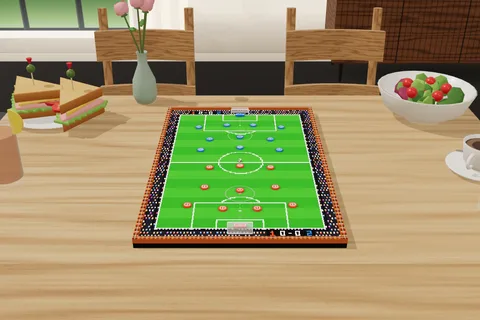
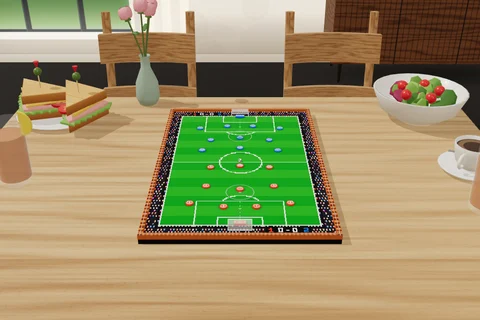
フチボウ：ウッドを継ぎ目のない木目に、8ビットの色を抑え点滅をなくし、スコア表に得点を表示
Claude-Session: https://claude.ai/code/session_019p8B6TWGZGMSPe9CJSpDa4

diff --git a/atlas/models/botao.js b/atlas/models/botao.js
@@ -106,7 +106,16 @@
         if (look === 'night' && inF) k += (Math.floor((cy + H) / 13.9) % 2 ? 9 : -6) + (N(x / 1.5, y / 40, 4) - .5) * 10;   // the mowing stripes
         if (look === 'retro') k += (N(x / 160, y / 160, 6) - .5) * 30 + (N(x / 9, y / 9, 7) > .82 ? -12 : 0);   // old paint, stains
         if (look === 'praia' && inF) k = (Math.random() - .5) * 26 + (N(x / 4, y / 4, 2) - .5) * 18;   // sand grain
-        if (look === 'madeira') { const plank = Math.floor((cx + TX) / (inF ? 9.5 : 4)), w = N(plank * 13.1 + x / 900, y / 7, 5); k = (w - .5) * 22 + (N(plank, 0, 9) - .5) * 26 + (Math.random() - .5) * 5; }
+        if (look === 'madeira') {   // (2026-11-17 ユーザー：板の境目は見せず、木目が伝わるリアルさで) one flat-sawn sheet: growth rings
+          // running the length with cathedral arches, latewood lines, fibres and pores (as table3d's woodTop, turned along the pitch)
+          const uu = y / Hh, vv = x / S - .5, A = inF ? [226, 194, 146] : [140, 92, 54], Bc = inF ? [168, 116, 68] : [72, 42, 22];
+          const cath = Math.sqrt(vv * vv + Math.pow(.09 + (uu - .55) * .12, 2)), wob = (N(uu * 1.3, vv * 2.4, 3) - .5) * .09 + (N(uu * 6, vv * 9, 2) - .5) * .012;
+          const f = ((Math.abs(vv) * .35 + cath * .65 + wob) * 30) % 1, late = Math.exp(-Math.pow((f - .78) / .06, 2)) + .35 * Math.exp(-Math.pow((f - .78) / .2, 2));
+          let tt = .18 + late * .45 + (N(uu * 5, x * .55, 2) - .5) * .3 + (N(uu * 40, x * 2.2, 1) - .5) * .12 + (N(uu * 1.5, vv * 1.5, 4) - .5) * .2;
+          if (late > .4 && N(uu * 300, x * 1.4, 1) > .78) tt += .12;
+          tt = Math.max(0, Math.min(1, tt)); const i = (y * S + x) * 4;
+          d[i] = A[0] + (Bc[0] - A[0]) * tt; d[i + 1] = A[1] + (Bc[1] - A[1]) * tt; d[i + 2] = A[2] + (Bc[2] - A[2]) * tt; d[i + 3] = 255; continue;
+        }
         const i = (y * S + x) * 4; d[i] = b[0] + k; d[i + 1] = b[1] + k; d[i + 2] = b[2] + k * (look === 'praia' ? .8 : 1.05); d[i + 3] = 255;
       }
       g.putImageData(img, 0, 0);
@@ -172,7 +181,7 @@
     return mat('btm' + look, () => {
       const TT = T(), neon = look === 'neon';
       const top = phys({ map: topTex(look), color: '#ffffff', roughness: look === 'madeira' ? .42 : look === 'praia' ? .95 : neon ? 1 : .88, metalness: 0, clearcoat: look === 'madeira' ? .6 : undefined, clearcoatRoughness: look === 'madeira' ? .35 : undefined });
-      if (neon) { top.emissiveMap = top.map; top.emissive = new TT.Color(.45, .45, .45); }   // (8-bit: the screen's own light)
+      if (neon) { top.color = new TT.Color(.8, .8, .8); top.emissiveMap = top.map; top.emissive = new TT.Color(.12, .12, .12); }   // (2026-11-17 ユーザー：少し明るすぎ → 抑えめ)   // (8-bit: the screen's own light)
       let rail;
       if (look === 'classic') { const w = X.wood('btImbuia', '#7a4a26', '#3e2412', SZ(1024), SZ(256), .9); w.wrapS = w.wrapT = TT.RepeatWrapping; rail = phys({ map: w, color: '#ffffff', roughness: .38, clearcoat: .8, clearcoatRoughness: .25 }); }
       else if (look === 'retro') { const w = X.wood('btPine', '#d8b47c', '#a87a44', SZ(1024), SZ(256), .7); w.wrapS = w.wrapT = TT.RepeatWrapping; rail = phys({ map: w, color: '#ffffff', roughness: .6 }); }
@@ -185,7 +194,7 @@
       }
       const edge = look === 'night' ? phys({ color: '#f4f4f4', roughness: .4 }) : look === 'praia' ? phys({ color: '#1f5fae', roughness: .4 }) : neon ? (() => { const m = phys({ color: '#000000', roughness: 1 }); m.emissive = lin(NES.w); m.emissiveIntensity = 1; return m; })() : null;
       const post = phys({ color: neon ? '#e8f8ff' : look === 'madeira' ? '#efe2c4' : '#f8f8f6', roughness: .3, metalness: look === 'madeira' ? 0 : .1, clearcoat: .6 });
-      if (neon) { post.color = lin(NES.w); post.roughness = 1; post.emissive = lin(NES.w); post.emissiveIntensity = .35; }
+      if (neon) { post.color = lin(NES.w); post.roughness = 1; post.emissive = lin(NES.w); post.emissiveIntensity = .2; }
       const netTex = X.canvasTex('btNet' + (neon ? 'n' : ''), 128, 128, (g, S) => { g.clearRect(0, 0, S, S); g.strokeStyle = 'rgba(255,255,255,.95)'; g.lineWidth = neon ? 16 : 6; for (let k = 0; k <= 4; k++) { const p = k * S / 4; g.beginPath(); g.moveTo(p, 0); g.lineTo(p, S); g.stroke(); g.beginPath(); g.moveTo(0, p); g.lineTo(S, p); g.stroke(); } });
       netTex.wrapS = netTex.wrapT = TT.RepeatWrapping; netTex.repeat.set(5, 2); if (neon) PIX(netTex);
       const net = new TT.MeshStandardMaterial({ map: netTex, transparent: true, alphaTest: .3, side: TT.DoubleSide, roughness: .9, depthWrite: true });
@@ -236,7 +245,7 @@
   }
   function button(look, side, n) {
     const TT = T(), g = new TT.Group(), neon = look === 'neon', [body] = TEAM[look][side];
-    const bm = mat('btBody' + look + side, () => { if (neon) { const m = phys({ color: body, roughness: 1, metalness: 0 }); m.flatShading = true; m.emissive = lin(body); m.emissiveIntensity = .3; return m; } return phys({ color: body, roughness: look === 'retro' ? .5 : look === 'madeira' ? .3 : .16, clearcoat: look === 'retro' ? .3 : 1, clearcoatRoughness: .12 }); });
+    const bm = mat('btBody' + look + side, () => { if (neon) { const m = phys({ color: body, roughness: 1, metalness: 0 }); m.flatShading = true; m.emissive = lin(body); m.emissiveIntensity = .12; return m; } return phys({ color: body, roughness: look === 'retro' ? .5 : look === 'madeira' ? .3 : .16, clearcoat: look === 'retro' ? .3 : 1, clearcoatRoughness: .12 }); });
     const b = new TT.Mesh(buttonGeo(look), bm); b.castShadow = true; g.add(b);
     const cm = mat('btCrestM' + look + side + '_' + n, () => { const m = new TT.MeshStandardMaterial({ map: crestTex(look, side, n), transparent: true, roughness: .35 }); if (neon) { m.roughness = 1; m.emissiveMap = m.map; m.emissive = new TT.Color(1, 1, 1); m.emissiveIntensity = .4; } return m; });
     const cr = neon ? new TT.Mesh(geo('bt8CrestG', () => { const q = new TT.PlaneGeometry(RB * K * 1.62, RB * K * 1.62); q.rotateX(-Math.PI / 2); return q; }), cm) : new TT.Mesh(geo('btCrestG', () => { const q = new TT.CircleGeometry(RB * K * .74, 30); q.rotateX(-Math.PI / 2); return q; }), cm);
@@ -251,7 +260,7 @@
     const m = mat('btBall' + look, () => {
       if (look === 'neon') {   // 8-bit: a blocky ball, white with black pixel patches
         const tex = PIX(X.canvasTex('bt8Ball', 16, 8, (g) => { g.fillStyle = NES.w; g.fillRect(0, 0, 16, 8); g.fillStyle = NES.k; [[1, 1], [5, 3], [9, 1], [13, 3], [3, 5], [7, 6], [11, 5], [15, 6]].forEach(([x, y]) => g.fillRect(x, y, 2, 2)); }));
-        const q = phys({ map: tex, color: '#ffffff', roughness: 1 }); q.flatShading = true; q.emissiveMap = tex; q.emissive = lin('#ffffff'); q.emissiveIntensity = .35; return q;
+        const q = phys({ map: tex, color: '#ffffff', roughness: 1 }); q.flatShading = true; q.emissiveMap = tex; q.emissive = lin('#ffffff'); q.emissiveIntensity = .15; return q;
       }
       const base = look === 'night' ? '#fff8d8' : look === 'praia' ? '#ffe14a' : look === 'neon' ? '#ffffff' : '#f6f3ea';
       const tex = X.canvasTex('btBallT' + look, 256, 128, (g, S) => {
@@ -267,7 +276,7 @@
         }
         g.putImageData(im, 0, 0);
       });
-      const q = phys({ map: tex, color: '#ffffff', roughness: .55, clearcoat: .4 }); if (look === 'neon') { q.emissiveMap = tex; q.emissive = lin('#ffffff'); q.emissiveIntensity = .7; } return q;
+      const q = phys({ map: tex, color: '#ffffff', roughness: .55, clearcoat: .4 }); if (look === 'neon') { q.emissiveMap = tex; q.emissive = lin('#ffffff'); q.emissiveIntensity = .35; } return q;
     });
     const s = new TT.Mesh(look === 'neon' ? geo('bt8BallG', () => new TT.SphereGeometry(RBALL * K, 8, 6)) : geo('btBallG', () => new TT.SphereGeometry(RBALL * K, LO() ? 12 : 18, LO() ? 9 : 14)), m); s.position.y = RBALL * K; s.castShadow = true; g.add(s);
     g.userData = { r: RBALL };
@@ -276,7 +285,7 @@
   // the goalkeeper: a block 8 × 3.5 × 1.6 cm in the side's colour, the number 1 on its back
   function keeper(look, side) {
     const TT = T(), g = new TT.Group(), [body, gr, ink] = TEAM[look][side], neon = look === 'neon';
-    const bm = mat('btKeep' + look + side, () => { if (neon) { const m = phys({ color: body, roughness: 1 }); m.emissive = lin(body); m.emissiveIntensity = .3; return m; } return phys({ color: body, roughness: look === 'retro' ? .55 : .22, clearcoat: look === 'retro' ? .2 : .9, clearcoatRoughness: .15 }); });
+    const bm = mat('btKeep' + look + side, () => { if (neon) { const m = phys({ color: body, roughness: 1 }); m.emissive = lin(body); m.emissiveIntensity = .12; return m; } return phys({ color: body, roughness: look === 'retro' ? .55 : .22, clearcoat: look === 'retro' ? .2 : .9, clearcoatRoughness: .15 }); });
     const box = new TT.Mesh(geo('btKeepG', () => { const q = new TT.BoxGeometry(2 * KHW * K, KH * K, 2 * KHD * K, 1, 1, 1); return q; }), bm); box.position.y = KH * K / 2; box.castShadow = true; g.add(box);
     const lab = mat('btKeepL' + look + side, () => { if (neon) { const tx = PIX(X.canvasTex('bt8Keep' + side, 16, 7, (c) => { c.fillStyle = gr; c.fillRect(0, 0, 16, 7); c.fillStyle = body; c.fillRect(1, 1, 14, 5); pixNum(c, 1, 6.5, 1, 1, NES.w); })); const m = new TT.MeshStandardMaterial({ map: tx, roughness: 1 }); m.emissiveMap = tx; m.emissive = new TT.Color(1, 1, 1); m.emissiveIntensity = .4; return m; }
       const m = new TT.MeshStandardMaterial({ map: X.canvasTex('btKeepT' + look + side, 256, 112, (c, S) => { c.fillStyle = gr; c.fillRect(0, 0, S, 112); c.strokeStyle = ink; c.lineWidth = 10; c.strokeRect(5, 5, S - 10, 102); c.fillStyle = ink; c.font = '900 84px "Fredoka", system-ui, sans-serif'; c.textAlign = 'center'; c.textBaseline = 'middle'; c.fillText('1', S / 2, 60); }), roughness: .4 }); if (neon) { m.emissiveMap = m.map; m.emissive = new TT.Color(1, 1, 1); m.emissiveIntensity = .8; } return m; });
@@ -321,6 +330,14 @@
     const U = g.userData;
     U.top = TOP; U.K = K; U.look = look; U.mats = BM; U.W = OW * K; U.L = OL * K;
     U.xz = (x, y) => [x * K, y * K];
+    // the 8-bit stands' scoreboards (2026-11-17 ユーザー：得点をスコア表にも): where they are on the table (cm) and how one is drawn
+    // (29×7 px) — the game lays a small live copy over each
+    if (look === 'neon') {
+      const Hh = Math.round(TL);
+      U.scoreBoards = [1, -1].map(sg => { const y = sg > 0 ? Hh - 8 : 3, x0 = TX + sg * 30 - 12; return { x: x0 - 2 - TX, y: y - 1 - TY, w: 29, h: 7 }; });
+      U.drawScore = (g, a, b) => { g.imageSmoothingEnabled = false; g.fillStyle = NES.k; g.fillRect(0, 0, 29, 7); const d = (n, x, c) => pixNum(g, n, x, 1, 1, c);
+        d(1, 2, NES.red); d(a % 10, 8, NES.w); g.fillStyle = NES.w; g.fillRect(13, 3, 2, 1); d(b % 10, 17, NES.w); d(2, 24, NES.blue); };
+    }
     U.button = (side, n) => button(look, side, n); U.ball = () => ball(look); U.keeper = side => keeper(look, side);
     U.dot = side => DOT[look][side];
     // the goal's inside width (cm): the PK shoot-out widens it (the posts and side nets move out, the bar and nets stretch)

diff --git a/atlas/lazy.js b/atlas/lazy.js
@@ -5,7 +5,7 @@
      AtlasLazy.has3D(id) / hasPlay(id) / hasRules(id) — known before loading; AtlasLazy.loaded(id) */
 (function () {
 'use strict';
-const G = {"reversi": ["models/reversi.js?v=1", "games/reversi.js?v=56", "rules/reversi.js?v=14"], "shogi": ["models/shogi.js?v=102", "games/shogi-play.js?v=48", "games/shogi.js?v=18", "rules/shogi.js?v=21"], "chess": ["models/chess.js?v=23", "games/chess.js?v=23", "rules/chess.js?v=8"], "backgammon": ["models/backgammon.js?v=123", "games/backgammon.js?v=29", "rules/backgammon.js?v=11"], "gomoku": ["models/goban.js?v=17", "games/gomoku.js?v=19", "rules/gomoku.js?v=10"], "go": ["models/goban.js?v=17", "games/go.js?v=10", "rules/go.js?v=7"], "hex": ["models/goban.js?v=17", "models/hex.js?v=3", "games/hex.js?v=9", "rules/hex.js?v=7"], "tafl": ["games/tafl.js?v=20", "rules/tafl.js?v=8"], "xiangqi": ["models/xiangqi.js?v=8", "games/xiangqi.js?v=18", "rules/xiangqi.js?v=7"], "janggi": ["models/xiangqi.js?v=8", "models/janggi.js?v=3", "games/janggi.js?v=10", "rules/janggi.js?v=3"], "checkers": ["models/checkers.js?v=23", "games/checkers.js?v=15", "rules/checkers.js?v=9"], "ugolki": ["models/checkers.js?v=23", "models/ugolki.js?v=4", "games/ugolki.js?v=16", "rules/ugolki.js?v=10"], "morris": ["models/morris.js?v=9", "games/morris-pieces.js?v=5", "games/morris.js?v=16", "rules/morris.js?v=8"], "connect4": ["models/connect4.js?v=6", "games/connect4-tiles.js?v=3", "games/connect4.js?v=10", "rules/connect4.js?v=3"], "mancala": ["models/mancala.js?v=6", "games/mancala.js?v=16", "rules/mancala.js?v=5"], "dots": ["models/dots.js?v=5", "games/dots.js?v=15", "rules/dots.js?v=3"], "ur": ["models/ur-dice.js?v=2", "models/ur.js?v=5", "games/ur-kit.js?v=15", "games/ur.js?v=15", "rules/ur.js?v=17"], "fanorona": ["models/fanorona.js?v=4", "games/fanorona.js?v=9", "rules/fanorona.js?v=8"], "konane": ["models/konane.js?v=7", "games/konane.js?v=18", "rules/konane.js?v=7"], "latrunculi": ["models/latrunculi.js?v=1", "games/latrunculi.js?v=3", "rules/latrunculi.js?v=2"], "foxgeese": ["models/foxgeese.js?v=1", "games/foxgeese.js?v=13", "rules/foxgeese.js?v=10"], "amazons": ["models/amazons.js?v=7", "games/amazons.js?v=17", "rules/amazons.js?v=9"], "senet": ["models/ur-dice.js?v=2", "models/senet.js?v=10", "games/senet-kit.js?v=5", "games/senet.js?v=20", "rules/senet.js?v=9"], "agon": ["models/agon.js?v=4", "games/agon.js?v=16", "rules/agon.js?v=6"], "alquerque": ["models/alquerque.js?v=3", "games/fanorona.js?v=9", "rules/alquerque.js?v=6"], "ludo": ["../ludo/engine.js?v=4", "../ludo/house.js?v=7", "../ludo/board2d.js?v=7", "../ludo/board-art.js?v=3", "models/ludo.js?v=10", "games/ludo.js?v=30", "rules/ludo.js?v=3"], "carrom": ["../carrom/engine.js?v=7", "models/carrom.js?v=18", "games/carrom.js?v=41", "rules/carrom.js?v=8", "../shared/onlinesec.js?v=2l14as1sh1", "online3d.js?v=1"], "crokinole": ["../carrom/engine.js?v=7", "games/carrom.js?v=41", "../crokinole/engine.js?v=4", "models/crokinole.js?v=13", "games/crokinole.js?v=18", "rules/crokinole.js?v=4", "../shared/onlinesec.js?v=2l14as1sh1", "online3d.js?v=1"], "hockey": ["../hockey/engine.js?v=15", "models/hockey.js?v=8", "games/hockey.js?v=31", "rules/hockey.js?v=7"], "botao": ["../carrom/engine.js?v=7", "games/carrom.js?v=41", "../botao/engine.js?v=15", "models/botao.js?v=9", "games/botao-i18n.js?v=13", "games/botao.js?v=30", "rules/botao.js?v=7"], "shanghai": ["games/shanghai-core.js?v=2", "games/shanghai-scenes.js?v=2", "games/shanghai-zodiac.js?v=6", "games/shanghai-i18n.js?v=17", "models/shanghai.js?v=19", "games/shanghai.js?v=44", "rules/shanghai-i18n.js?v=1", "rules/shanghai.js?v=1"], "patolli": ["models/patolli.js?v=1", "games/patolli-kit.js?v=2", "games/patolli.js?v=4", "rules/patolli.js?v=2"], "peg": ["../peg/engine.js?v=2", "../peg/i18n.js?v=11", "models/peg.js?v=23", "games/peg.js?v=16", "rules/peg.js?v=4"], "hitblow": ["../hitblow/engine.js?v=5", "models/hitblow.js?v=10", "games/hitblow.js?v=13", "rules/hitblow.js?v=3"]};
+const G = {"reversi": ["models/reversi.js?v=1", "games/reversi.js?v=56", "rules/reversi.js?v=14"], "shogi": ["models/shogi.js?v=102", "games/shogi-play.js?v=48", "games/shogi.js?v=18", "rules/shogi.js?v=21"], "chess": ["models/chess.js?v=23", "games/chess.js?v=23", "rules/chess.js?v=8"], "backgammon": ["models/backgammon.js?v=123", "games/backgammon.js?v=29", "rules/backgammon.js?v=11"], "gomoku": ["models/goban.js?v=17", "games/gomoku.js?v=19", "rules/gomoku.js?v=10"], "go": ["models/goban.js?v=17", "games/go.js?v=10", "rules/go.js?v=7"], "hex": ["models/goban.js?v=17", "models/hex.js?v=3", "games/hex.js?v=9", "rules/hex.js?v=7"], "tafl": ["games/tafl.js?v=20", "rules/tafl.js?v=8"], "xiangqi": ["models/xiangqi.js?v=8", "games/xiangqi.js?v=18", "rules/xiangqi.js?v=7"], "janggi": ["models/xiangqi.js?v=8", "models/janggi.js?v=3", "games/janggi.js?v=10", "rules/janggi.js?v=3"], "checkers": ["models/checkers.js?v=23", "games/checkers.js?v=15", "rules/checkers.js?v=9"], "ugolki": ["models/checkers.js?v=23", "models/ugolki.js?v=4", "games/ugolki.js?v=16", "rules/ugolki.js?v=10"], "morris": ["models/morris.js?v=9", "games/morris-pieces.js?v=5", "games/morris.js?v=16", "rules/morris.js?v=8"], "connect4": ["models/connect4.js?v=6", "games/connect4-tiles.js?v=3", "games/connect4.js?v=10", "rules/connect4.js?v=3"], "mancala": ["models/mancala.js?v=6", "games/mancala.js?v=16", "rules/mancala.js?v=5"], "dots": ["models/dots.js?v=5", "games/dots.js?v=15", "rules/dots.js?v=3"], "ur": ["models/ur-dice.js?v=2", "models/ur.js?v=5", "games/ur-kit.js?v=15", "games/ur.js?v=15", "rules/ur.js?v=17"], "fanorona": ["models/fanorona.js?v=4", "games/fanorona.js?v=9", "rules/fanorona.js?v=8"], "konane": ["models/konane.js?v=7", "games/konane.js?v=18", "rules/konane.js?v=7"], "latrunculi": ["models/latrunculi.js?v=1", "games/latrunculi.js?v=3", "rules/latrunculi.js?v=2"], "foxgeese": ["models/foxgeese.js?v=1", "games/foxgeese.js?v=13", "rules/foxgeese.js?v=10"], "amazons": ["models/amazons.js?v=7", "games/amazons.js?v=17", "rules/amazons.js?v=9"], "senet": ["models/ur-dice.js?v=2", "models/senet.js?v=10", "games/senet-kit.js?v=5", "games/senet.js?v=20", "rules/senet.js?v=9"], "agon": ["models/agon.js?v=4", "games/agon.js?v=16", "rules/agon.js?v=6"], "alquerque": ["models/alquerque.js?v=3", "games/fanorona.js?v=9", "rules/alquerque.js?v=6"], "ludo": ["../ludo/engine.js?v=4", "../ludo/house.js?v=7", "../ludo/board2d.js?v=7", "../ludo/board-art.js?v=3", "models/ludo.js?v=10", "games/ludo.js?v=30", "rules/ludo.js?v=3"], "carrom": ["../carrom/engine.js?v=7", "models/carrom.js?v=18", "games/carrom.js?v=41", "rules/carrom.js?v=8", "../shared/onlinesec.js?v=2l14as1sh1", "online3d.js?v=1"], "crokinole": ["../carrom/engine.js?v=7", "games/carrom.js?v=41", "../crokinole/engine.js?v=4", "models/crokinole.js?v=13", "games/crokinole.js?v=18", "rules/crokinole.js?v=4", "../shared/onlinesec.js?v=2l14as1sh1", "online3d.js?v=1"], "hockey": ["../hockey/engine.js?v=15", "models/hockey.js?v=8", "games/hockey.js?v=31", "rules/hockey.js?v=7"], "botao": ["../carrom/engine.js?v=7", "games/carrom.js?v=41", "../botao/engine.js?v=15", "models/botao.js?v=10", "games/botao-i18n.js?v=13", "games/botao.js?v=31", "rules/botao.js?v=7"], "shanghai": ["games/shanghai-core.js?v=2", "games/shanghai-scenes.js?v=2", "games/shanghai-zodiac.js?v=6", "games/shanghai-i18n.js?v=17", "models/shanghai.js?v=19", "games/shanghai.js?v=44", "rules/shanghai-i18n.js?v=1", "rules/shanghai.js?v=1"], "patolli": ["models/patolli.js?v=1", "games/patolli-kit.js?v=2", "games/patolli.js?v=4", "rules/patolli.js?v=2"], "peg": ["../peg/engine.js?v=2", "../peg/i18n.js?v=11", "models/peg.js?v=23", "games/peg.js?v=16", "rules/peg.js?v=4"], "hitblow": ["../hitblow/engine.js?v=5", "models/hitblow.js?v=10", "games/hitblow.js?v=13", "rules/hitblow.js?v=3"]};
 const F = {"patolli": {"t3": true, "play": true, "rules": true}, "reversi": {"t3": true, "play": true, "rules": true}, "shogi": {"t3": true, "play": true, "rules": true}, "chess": {"t3": true, "play": true, "rules": true}, "backgammon": {"t3": true, "play": true, "rules": true}, "gomoku": {"t3": true, "play": true, "rules": true}, "go": {"t3": true, "play": true, "rules": true}, "hex": {"t3": true, "play": true, "rules": true}, "tafl": {"t3": true, "play": true, "rules": true}, "xiangqi": {"t3": true, "play": true, "rules": true}, "janggi": {"t3": true, "play": true, "rules": true}, "checkers": {"t3": true, "play": true, "rules": true}, "ugolki": {"t3": true, "play": true, "rules": true}, "morris": {"t3": true, "play": true, "rules": true}, "connect4": {"t3": true, "play": true, "rules": true}, "mancala": {"t3": true, "play": true, "rules": true}, "dots": {"t3": true, "play": true, "rules": true}, "ur": {"t3": true, "play": true, "rules": true}, "fanorona": {"t3": true, "play": true, "rules": true}, "konane": {"t3": true, "play": true, "rules": true}, "latrunculi": {"t3": true, "play": true, "rules": true}, "foxgeese": {"t3": true, "play": true, "rules": true}, "amazons": {"t3": true, "play": true, "rules": true}, "senet": {"t3": true, "play": true, "rules": true}, "agon": {"t3": true, "play": true, "rules": true}, "alquerque": {"t3": true, "play": true, "rules": true}, "ludo": {"t3": true, "play": true, "rules": true}, "carrom": {"t3": true, "play": true, "rules": true}, "crokinole": {"t3": true, "play": true, "rules": true}, "hockey": {"t3": true, "play": true, "rules": true}, "botao": {"t3": true, "play": true, "rules": true}, "peg": {"t3": true, "play": true, "rules": true}, "shanghai": {"t3": true, "play": true, "rules": true}, "hitblow": {"t3": true, "play": true, "rules": true}};
 const done = new Set(), loading = new Map(), ok = new Set();
 function load(src) {

diff --git a/atlas/games/botao.js b/atlas/games/botao.js
@@ -95,7 +95,7 @@
       if (v === look) return; neonReset(); look = v; feel = AC().feelOf(CFEEL[v]);
       try { if (T3.setBoard) T3.setBoard('botao', v); } catch (e) {}
       const nb = T3.MODELS.botao(true, v); modelKids.forEach(c => board.remove(c)); modelKids = new Set(nb.children); [...nb.children].forEach(c => board.add(c)); board.userData = nb.userData; U = board.userData; goalW();
-      build(); syncAll(); neonTick(); if (T3.kick) T3.kick(500);
+      build(); syncAll(); neonTick(); scoreBoards(); if (T3.kick) T3.kick(500);
     }
 
     /* ---------- the camera: following the ball (an angled close view) or the whole table from above ---------- */
@@ -320,6 +320,7 @@
     }
     const dotCol = p => U.dot ? U.dot(p) : (p === 0 ? '#d4352a' : '#e9e6dc');
     function hud() {
+      scoreBoards();
       if (stopped || !st) return;
       const pill = p => `<span class="btp ${st.pos === p && !over ? 'on' : ''}"><i style="background:${dotCol(p)}"></i><span class="nm">${esc(nameOf(p))}</span><b>${st.score[p]}</b></span>`;
       const top = st.pk ? tx('pkHud', { n: st.pk.n }) + ' ' + [0, 1].map(t => st.pk.k[t].map(x => x ? '●' : '×').join('') || '−').join(' | ') : st.goals ? tx('to', { n: st.goals }) : tx(st.half === 1 ? 'first' : 'second') + ' ' + tx('left', { n: Math.max(0, st.halfLen - st.clock) });
@@ -352,8 +353,8 @@
     let waveT = 0, flashT = 0, strobeT = 0;
     const TRAIL = [];
     const PAL8 = ['#fcfcfc', '#f8b800', '#f83800', '#d800cc', '#0078f8', '#00b800'];
-    function neonFlash(k) { flashT = Math.max(flashT, performance.now() + 120 * (k || 1)); }
-    function neonStrobe() { strobeT = performance.now() + 1800; }
+    function neonFlash() {}   // (2026-11-17 ユーザー：当たったときに画面が一瞬明るくなる演出はカット)
+    function neonStrobe() {}   // (the goal's flashing pitch: cut too, 2026-11-17)
     let trailRaf = 0, trailLast = null;
     function trailPaint(m, now) {
       const k = (now - m.userData.t0) / 650; if (k >= 1) { m.visible = false; return; }
@@ -386,7 +387,27 @@
     // the materials are shared (the board picker, the showcase): put them back as the model made them
     function neonReset() {
       const M = U && U.mats; if (!M || U.look !== 'neon') return;
-      M.top.emissive.setRGB(.45, .45, .45); if (M.edge) { M.edge.emissive.set('#fcfcfc').convertSRGBToLinear(); M.edge.emissiveIntensity = 1; } if (M.post) { M.post.emissive.set('#fcfcfc').convertSRGBToLinear(); M.post.emissiveIntensity = .35; }
+      M.top.emissive.setRGB(.12, .12, .12); if (M.edge) { M.edge.emissive.set('#fcfcfc').convertSRGBToLinear(); M.edge.emissiveIntensity = .5; } if (M.post) { M.post.emissive.set('#fcfcfc').convertSRGBToLinear(); M.post.emissiveIntensity = .2; }
+    }
+    // the 8-bit stands' scoreboards show the score (2026-11-17): a small pixel canvas laid over each board in the top
+    const SB = { meshes: [], key: '' };
+    function sbDrop() { SB.meshes.forEach(m => { board.remove(m); m.geometry.dispose(); }); if (SB.meshes.length) { SB.meshes[0].material.dispose(); SB.tex.dispose(); } SB.meshes = []; SB.key = ''; }
+    function scoreBoards() {
+      if (SB.U !== U) { sbDrop(); SB.U = U; }
+      if (stopped || !U || !U.scoreBoards || !st) { SB.meshes.forEach(m => { m.visible = false; }); return; }
+      const key = st.score[0] + '-' + st.score[1]; if (SB.meshes.length && SB.key === key && SB.meshes[0].visible) return; SB.key = key;
+      if (!SB.meshes.length) {
+        SB.cv = document.createElement('canvas'); SB.cv.width = 29; SB.cv.height = 7;
+        SB.tex = new TH.CanvasTexture(SB.cv); SB.tex.magFilter = SB.tex.minFilter = TH.NearestFilter; SB.tex.generateMipmaps = false; SB.tex.colorSpace = TH.SRGBColorSpace;
+        const mat = new TH.MeshBasicMaterial({ map: SB.tex, toneMapped: false, color: new TH.Color(.8, .8, .8) });
+        U.scoreBoards.forEach(r => {
+          const P = [[r.x, r.y], [r.x + r.w, r.y], [r.x, r.y + r.h], [r.x + r.w, r.y + r.h]].map(([x, y]) => { const [a, b] = wx(x, y); return [a, Y + .004, b]; });
+          const geo = new TH.BufferGeometry(); geo.setAttribute('position', new TH.Float32BufferAttribute(P.flat(), 3));
+          geo.setAttribute('uv', new TH.Float32BufferAttribute([0, 1, 1, 1, 0, 0, 1, 0], 2)); geo.setIndex([0, 2, 1, 1, 2, 3]);
+          const m = new TH.Mesh(geo, mat); m.renderOrder = 2; m.material.side = TH.DoubleSide; board.add(m); SB.meshes.push(m);
+        });
+      }
+      U.drawScore(SB.cv.getContext('2d'), st.score[0], st.score[1]); SB.tex.needsUpdate = true; SB.meshes.forEach(m => { m.visible = true; }); kick(100);
     }
     function neonTick() {
       cancelAnimationFrame(waveT); if (stopped) TRAIL.forEach(m => { m.visible = false; }); if (stopped || !U || U.look !== 'neon') return;
@@ -397,10 +418,10 @@
         const key = st + '|' + strobe + '|' + fl; if (key === lastKey) return; lastKey = key;   // (only on a new step)
         // the pitch: a blink on a knock, the palette on a goal
         if (strobe) { c.set(PAL8[st % PAL8.length]).convertSRGBToLinear(); M.top.emissive.copy(c).multiplyScalar(.8); }
-        else M.top.emissive.setRGB(fl ? .85 : .45, fl ? .85 : .45, fl ? .85 : .45);
+        else M.top.emissive.setRGB(.12, .12, .12);
         // the rail's strip marches through the palette; the goal frames blink on a goal
-        if (M.edge && st !== lastStep) { M.edge.emissive.set(PAL8[st % PAL8.length]).convertSRGBToLinear(); M.edge.emissiveIntensity = 1; }
-        if (M.post) { M.post.emissive.set(strobe ? PAL8[(st + 2) % PAL8.length] : '#fcfcfc').convertSRGBToLinear(); M.post.emissiveIntensity = strobe ? 1 : .35; }
+        if (M.edge && st !== lastStep) { M.edge.emissive.set(PAL8[st % PAL8.length]).convertSRGBToLinear(); M.edge.emissiveIntensity = .5; }
+        if (M.post) { M.post.emissive.set(strobe ? PAL8[(st + 2) % PAL8.length] : '#fcfcfc').convertSRGBToLinear(); M.post.emissiveIntensity = strobe ? .5 : .2; }
         lastStep = st; kick(160); };
       waveT = requestAnimationFrame(step);
     }
@@ -902,7 +923,7 @@
         document.querySelectorAll('.bpk').forEach(e => e.remove());
         neonReset(); TRAIL.forEach(m => { board.remove(m); m.material.dispose(); }); TRAIL.length = 0;
         if (U && U.goalWidth) U.goalWidth(0);
-        stopped = true; tok++; timers.forEach(clearTimeout); board.remove(beacon); beacon.material.dispose(); starTex.dispose(); clearInterval(pulseT); clearInterval(clkT); clearInterval(keeperT);
+        stopped = true; sbDrop(); tok++; timers.forEach(clearTimeout); board.remove(beacon); beacon.material.dispose(); starTex.dispose(); clearInterval(pulseT); clearInterval(clkT); clearInterval(keeperT);
         ctx.el.removeEventListener('pointerdown', pd); ctx.el.removeEventListener('pointermove', pm); ctx.el.removeEventListener('pointerup', pu); ctx.el.removeEventListener('pointercancel', pu);
         removeEventListener('pointermove', wm, true); removeEventListener('pointerup', wu, true); removeEventListener('pointercancel', wu, true);
         NZ.forEach(([k, f]) => document.removeEventListener(k, f, { capture: true })); HTML.classList.remove('hand-on'); HTML.classList.remove('hand-drag');

diff --git a/atlas/tables3d.js b/atlas/tables3d.js
@@ -416,7 +416,7 @@
   X.boardName = (k, lang, id) => { const g = id && NG[id] && NG[id][k]; if (g) return g[lang] || g.en; const o = N3[k]; if (!o) return k; const n = o[lang] || o.en, c = n.replace(/\s*(?:3D|ثلاثي(?: الأبعاد)?)$/, '').trim(); return c || n; };   // (2026-11-10: the boards' names without '3D')
   // the full games' 「3D盤」 tiles: the board alone, from straight above, no room (atlas/tools/boardicon.html, 2026-11-09)
   X.boardIcon = (id, k) => new URL('img/boardic-' + id + '-' + k + '.webp?v=' + (id === 'go' || id === 'gomoku' ? 9 : id === 'hex' ? 3 : id === 'connect4' ? 2 : id === 'mancala' ? 2 : id === 'morris' ? 2 : id === 'backgammon' ? 2 : id === 'checkers' ? 5 : id === 'xiangqi' ? 3 : id === 'chess' ? 7 : 1), ME).href;
-  X.boardThumb = (id, k) => new URL('img/board-' + id + '-' + k + '.webp?v=' + (id === 'go' || id === 'gomoku' ? 9 : id === 'hex' ? 3 : id === 'connect4' ? 2 : id === 'mancala' ? 2 : id === 'morris' ? 2 : id === 'senet' ? 3 : id === 'carrom' ? 5 : id === 'crokinole' ? 5 : id === 'konane' ? 2 : id === 'ludo' ? 2 : id === 'hockey' ? 2 : id === 'peg' ? 10 : id === 'backgammon' ? 2 : id === 'checkers' ? 5 : id === 'xiangqi' ? 3 : id === 'botao' ? 4 : id === 'chess' ? 7 : 1), ME).href;
+  X.boardThumb = (id, k) => new URL('img/board-' + id + '-' + k + '.webp?v=' + (id === 'go' || id === 'gomoku' ? 9 : id === 'hex' ? 3 : id === 'connect4' ? 2 : id === 'mancala' ? 2 : id === 'morris' ? 2 : id === 'senet' ? 3 : id === 'carrom' ? 5 : id === 'crokinole' ? 5 : id === 'konane' ? 2 : id === 'ludo' ? 2 : id === 'hockey' ? 2 : id === 'peg' ? 10 : id === 'backgammon' ? 2 : id === 'checkers' ? 5 : id === 'xiangqi' ? 3 : id === 'botao' ? 5 : id === 'chess' ? 7 : 1), ME).href;
   // choose a board for a game: the shared key is written and the showcase board (if it is that game's) is rebuilt at once
   X.setBoard = (id, k) => { const B = BOARDS[id]; if (!B || !B.list.includes(k)) return; B.set(k); try { dispatchEvent(new CustomEvent('atlas-board', { detail: { id, look: k } })); } catch (e) {} };
   // 駒: the games whose 3D figures come in sets (the board view's panel shows them as a row under 盤; the full game's 「3D駒」 too)

diff --git a/atlas/index.html b/atlas/index.html
@@ -2259,7 +2259,7 @@ else document.write('<script src="https://cdnjs.cloudflare.com/ajax/libs/three.j
 <script>/* the places other than the chabudai (tables3d.js, 440 KB): at once when one is chosen, else in idle time after the page has
    loaded (2026-11-10); 'atlas-places' tells the page they are there */
 (function () {
-  var SRC = 'tables3d.js?v=146', k = 0, p = null;
+  var SRC = 'tables3d.js?v=147', k = 0, p = null;
   try { k = +(localStorage.getItem('atlas-table') || 0) || 0; var m = /[?&]tbl=(\d+)/.exec(location.search); if (m) k = +m[1]; } catch (e) {}
   window.AtlasPlaces = function () { return p || (p = new Promise(function (res) { var s = document.createElement('script'); s.src = SRC; s.onload = s.onerror = function () { res(); try { dispatchEvent(new Event('atlas-places')); } catch (e) {} }; document.head.appendChild(s); })); };
   if (k) { document.write('<script src="' + SRC + '"><\/script>'); p = Promise.resolve(); }
@@ -2279,7 +2279,7 @@ window.AtlasRgdTimer = function (btn, ms, alive) {
   }, 60);
 };</script>
 <script src="../shared/tapword.js?v=1"></script>
-<script src="lazy.js?v=389"></script>
+<script src="lazy.js?v=390"></script>
 <script src="puzzle-lines.js?v=1"></script>
 <script src="puzzles.js?v=40"></script>
 <script src="lessons3d.js?v=67"></script>

diff --git a/claude/game-conventions-addendum.md b/claude/game-conventions-addendum.md
@@ -774,3 +774,4 @@
 - **戦績アイコンの位置（2026-11-17）**：ゲームカードの戦績（トロフィー）は、**スマホだけ**見えている3Dビューの右下（**PCは元のまま、上の場所チップの横**。ユーザー指定 2026-11-17）（カードのすぐ上、右端）に固定（`.bvrecf`）。3Dビュー（#bv）の子にして、カードの上端（offsetTop、transform を含まない配置の位置）のすぐ上に bottom を合わせる。位置は ResizeObserver のコールバックで直接決める（レイアウトの後・描画の前に動くので、カードの大きさの変化と同じフレームで動く。rAF や transition は使わない。2026-11-17 ユーザー：ワンテンポ遅れず即連動）。カードの中に入れるとスマホではカードのスクロールで切れて見えなくなるので入れない。対局中・ルールでは隠す。
 - **戦績アイコンの位置（2026-11-17）**：ゲームカードの戦績（トロフィー）は、PC・スマホとも見えている3Dビューの右下（カードのすぐ上、右端）に固定（`.bvrecf`）。3Dビュー（#bv）の子にして、カードの上端（offsetTop、transform を含まない配置の位置）のすぐ上に bottom を合わせる。位置は ResizeObserver のコールバックで直接決める（レイアウトの後・描画の前に動くので、カードの大きさの変化と同じフレームで動く。rAF や transition は使わない。2026-11-17 ユーザー：ワンテンポ遅れず即連動）。カードの中に入れるとスマホではカードのスクロールで切れて見えなくなるので入れない。対局中・ルールでは隠す。
 - **種目のポップアップ（PC、2026-11-17）**：幅 min(1120px, 94vw)、カードは横いっぱいに並べる（auto-fit, 最小200px）、絵の高さ190px・名前19px・説明14.5px。スマホはこれまでどおり。
+- **フチボウの盤（ユーザー指定 2026-11-17）**：ウッドは板の継ぎ目を見せない1枚の板目（年輪のアーチ・晩材の線・繊維・導管。table3d の woodTop と同じ作り）。8ビットは色を抑えめ（盤の発光 .45→.12・色 .8、駒・ボール・枠の発光も半分ほど）、当たったときの画面の点滅とゴールの盤の点滅はなし。8ビットのスタンドのスコア表は試合の得点を表示（`U.scoreBoards`・`U.drawScore` に重ねた小さなピクセル板）。
